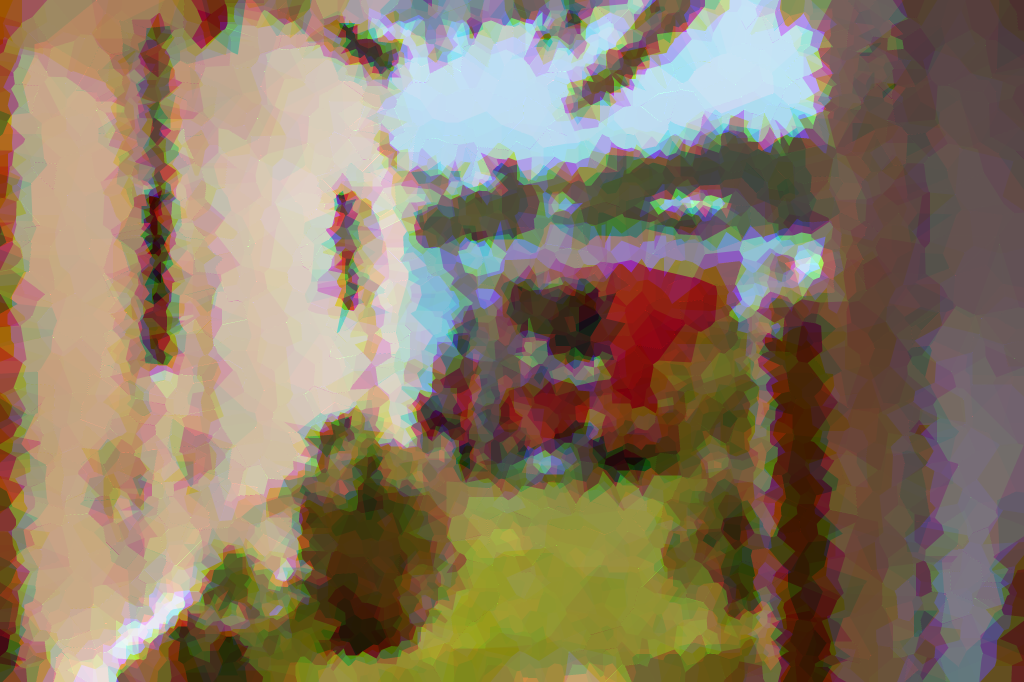
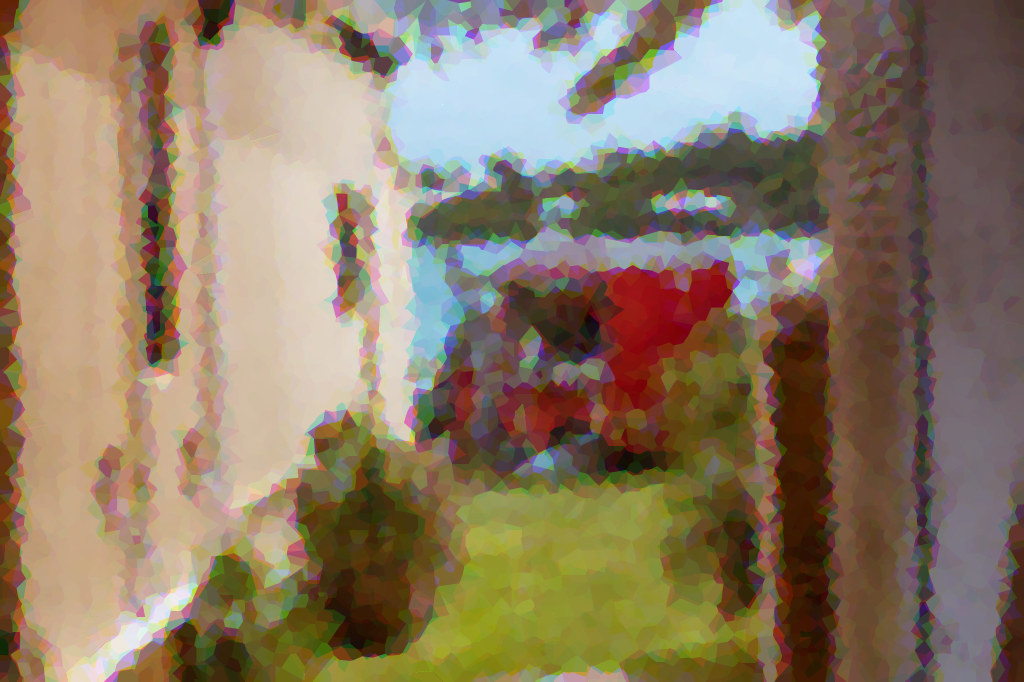
new images

diff --git a/src/components/ImageVoronoi.vue b/src/components/ImageVoronoi.vue
@@ -99,10 +99,8 @@ export default {
     drawVoronoi() {
       var iv = new VoronoiDrawer(this.canvas, this.num_sites * 40);
       if (this.ifRGB) {
-        iv.num_sites = (this.num_sites * 20);
         iv.RGBVoronoi(this.dosage);
       } else {
-        iv.num_sites = this.num_sites * 40;
         iv.FillVoronoi(0);
       }
     },
